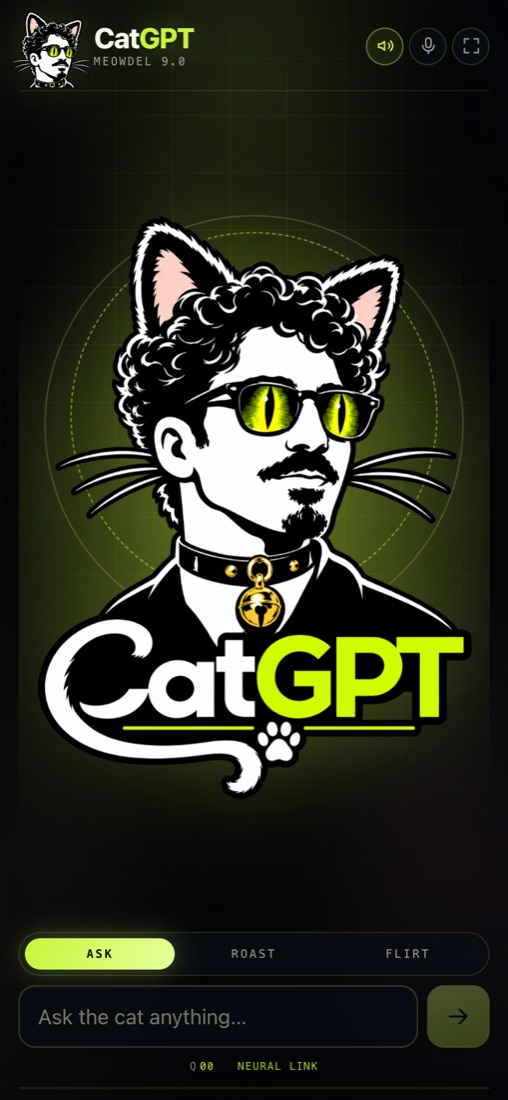
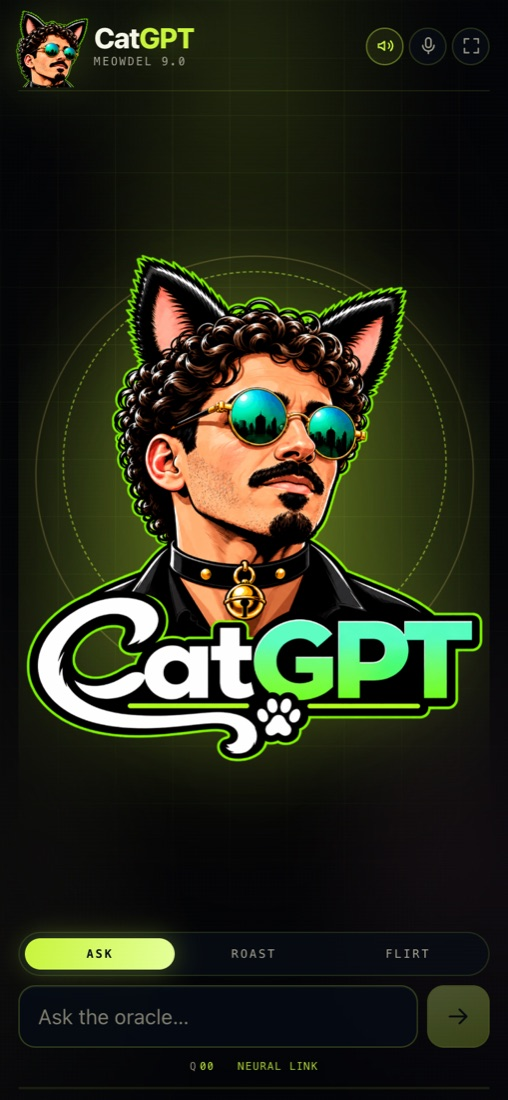
Replace mascot with new neon CatGPT artwork

diff --git a/tests/offlineBrain.test.ts b/tests/offlineBrain.test.ts
@@ -45,7 +45,7 @@ describe("offline brain", () => {
     for (const mode of CHAT_MODES) {
       for (const question of SAMPLES) {
         const reply = buildOfflineReply({ question, mode });
-        expect(reply.length).toBeGreaterThan(8);
+        expect(reply.length).toBeGreaterThan(0);
         expect(reply.length).toBeLessThanOrEqual(220);
       }
     }

diff --git a/app/layout.tsx b/app/layout.tsx
@@ -30,9 +30,9 @@ export const metadata: Metadata = {
     type: "website",
     images: [
       {
-        url: "/brand/catgpt-logo.png",
-        width: 1254,
-        height: 1254,
+        url: "/brand/catgpt-logo.jpg",
+        width: 1024,
+        height: 1024,
         alt: "CatGPT — a cat-man in yellow cat-eye sunglasses",
       },
     ],

diff --git a/public/sw.js b/public/sw.js
@@ -9,7 +9,7 @@
  *
  * Bump CACHE_VERSION when you want to force old caches out on the next visit.
  */
-const CACHE_VERSION = "catgpt-v3";
+const CACHE_VERSION = "catgpt-v4";
 const SHELL = ["/", "/manifest.webmanifest", "/icons/icon-192.png", "/icons/icon-512.png"];
 
 self.addEventListener("install", (event) => {

diff --git a/app/globals.css b/app/globals.css
@@ -654,9 +654,9 @@ button {
 }
 
 .cat-avatar--full {
-  width: min(86vw, 420px);
+  width: min(90vw, 440px);
   height: auto;
-  aspect-ratio: 926 / 1247;
+  aspect-ratio: 1133 / 1254;
   filter: drop-shadow(0 0 40px rgba(200, 245, 60, 0.22));
 }
 

diff --git a/README.md b/README.md
@@ -1,7 +1,7 @@
 # CatGPT — Artificial Feline Intelligence
 
 <p align="center">
-  <img src="public/brand/catgpt-logo.png" alt="CatGPT logo: a cat-man in yellow cat-eye sunglasses and a studded collar" width="360" />
+  <img src="public/brand/catgpt-logo.jpg" alt="CatGPT logo: a cat-man in yellow cat-eye sunglasses and a studded collar" width="360" />
 </p>
 
 A wearable, party-ready AI cat with opinions. Guests type a question into the screen on your
